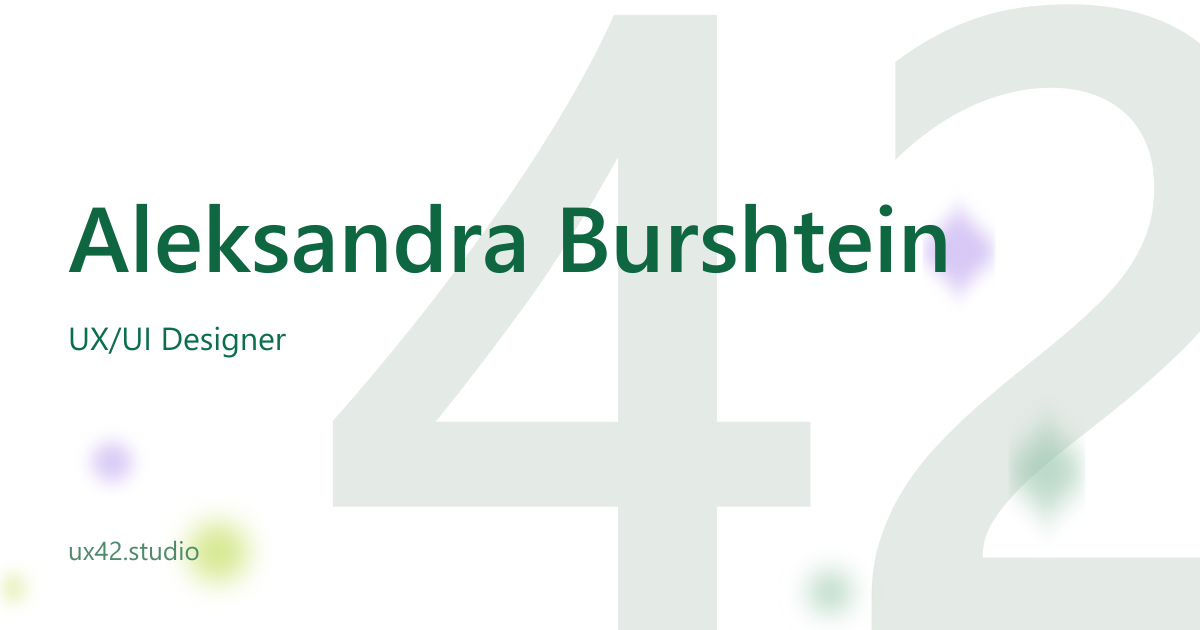
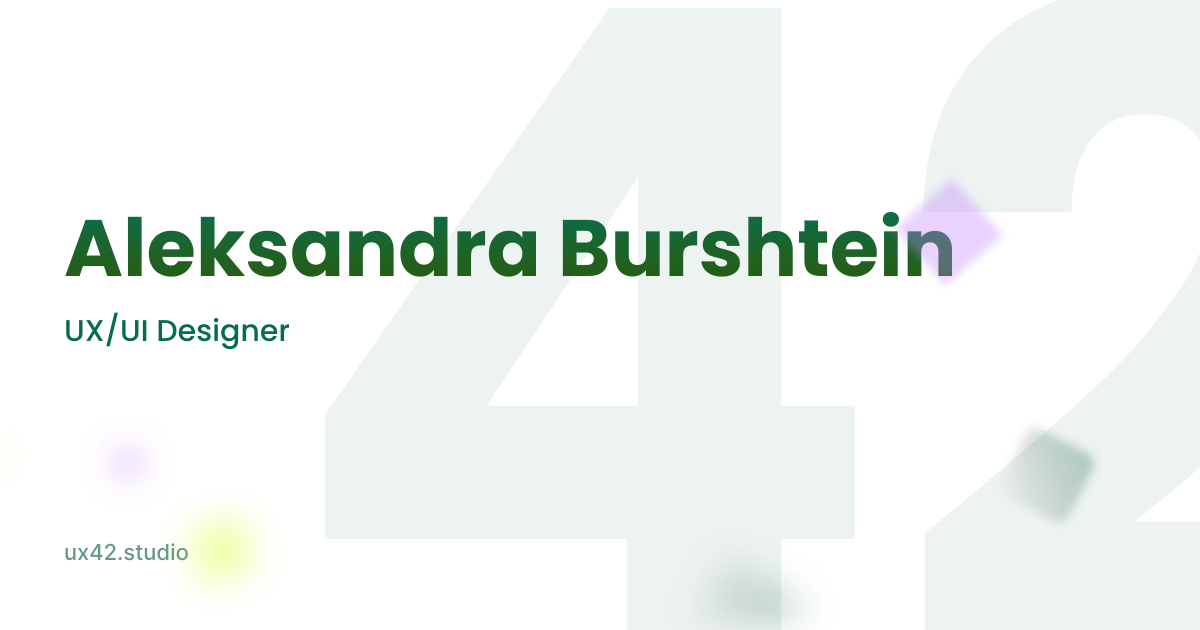
C2 финал: OG-обложка — Figma-экспорт SVG (текст в кривых) → og-cover.png 1200×630 72KB (спека (45))

diff --git a/Docs/ui/Main_page_Spec.md b/Docs/ui/Main_page_Spec.md
@@ -736,3 +736,14 @@ hover заливка rgba(11,110,79,0.1) (transition-colors, без opacity).
        в системе не установлен — рендер пошёл Segoe UI (допустимый
        fallback по правилу «Poppins → fallback»); для точного Poppins
        положить TTF в репо и перевести текст обложки в кривые.
+
+  (45) 2026-09-11 — ФИНАЛ OG-обложки: пользователь прислал Figma-экспорт
+       «OG-cover final.svg» — весь текст переведён в кривые (path'ы),
+       шрифтовая зависимость снята полностью. Файл заменил драфт:
+       mv → public/og/og-cover.svg (имя без пробелов), из него sharp-скрипт
+       перегнал og-cover.png (1200×630, 72KB). Истина по обложке — теперь
+       этот SVG: любые правки = новый экспорт из Figma → mv в og-cover.svg
+       → sharp-скрипт (node -e sharp(...)). Драфт-версия утрачена (не
+       нужна), Docs/ui/og-cover-reference.png оставлен как растровая
+       справка одобренного дизайна. C2 закрыт полностью: обложка +
+       metadataBase + OG/twitter /u/[slug] + per-profile ogFile fallback.
